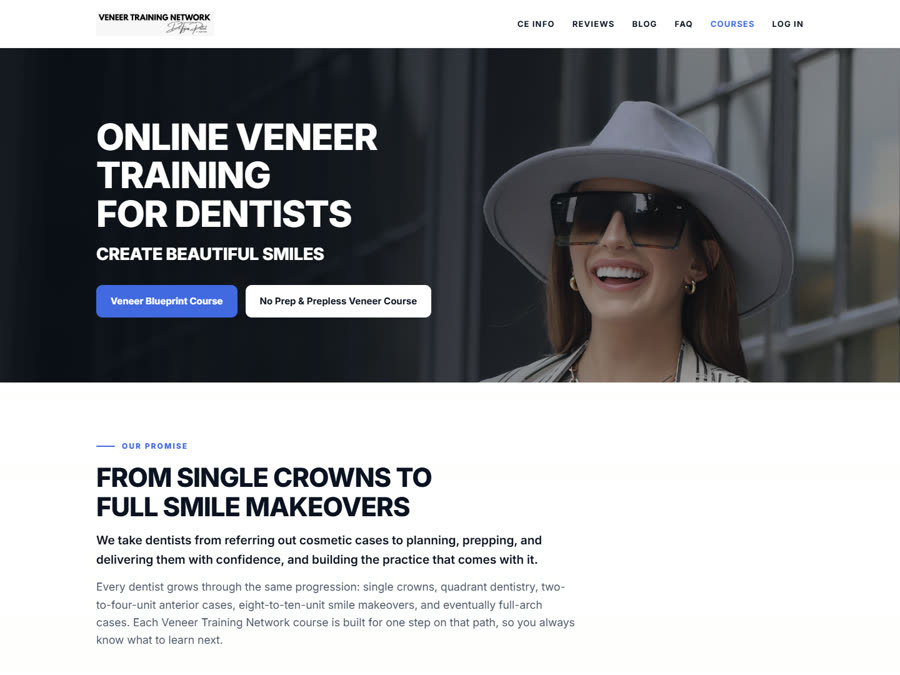
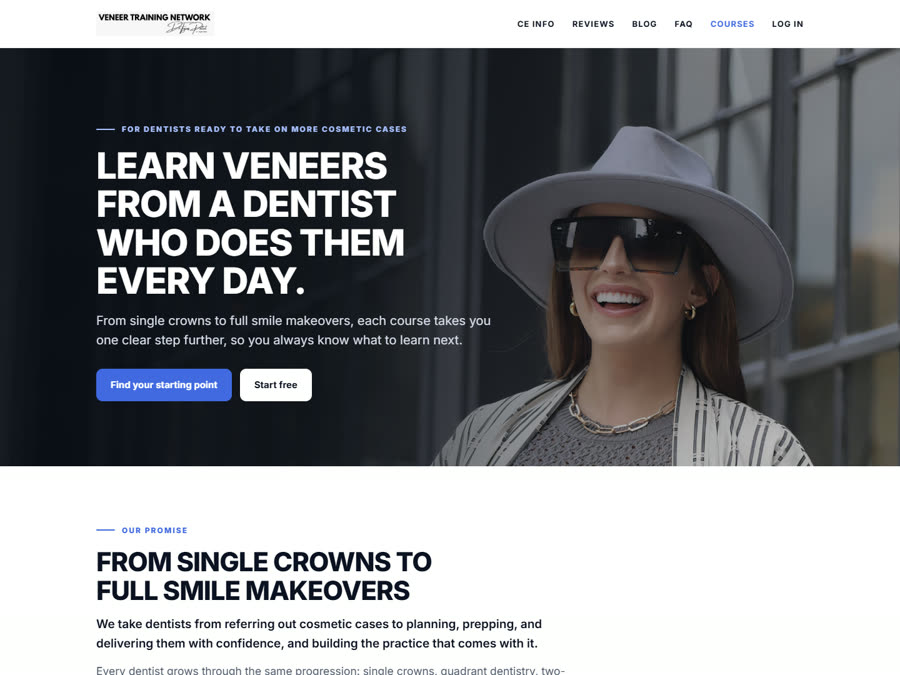
V2: hero matched to V1 and the Crown Prep card filled in
Per Sandra's feedback, edited in place rather than creating a V3.

- Hero now matches Version 1, without the banner placeholder she
  crossed out. Nav still has no Start free button
- 3 Minute Crown Prep card filled from the client's own live course
  page at /3-minute-crown-prep-preview/, replacing the placeholder
- Comparison page updated, since both versions now share a hero and
  the old descriptions were out of date

diff --git a/v2/index.html b/v2/index.html
@@ -67,6 +67,8 @@ nav.main a.is-courses{color:var(--blue)}
   font-weight:800;text-transform:uppercase;text-wrap:balance}
 .hero h2{font-size:clamp(20px,2.4vw,27px);line-height:1.2;margin:0 0 32px;font-weight:800;
   text-transform:uppercase;letter-spacing:-.01em;color:#fff}
+.hero .eyebrow{color:#A8C0FF}
+.hero p.lede{font-size:clamp(17px,2vw,20px);line-height:1.55;color:#D7DDEA;margin:0 0 30px;max-width:54ch}
 .hero-cta{display:flex;gap:13px;flex-wrap:wrap}
 
 /* ---------- sections ---------- */
@@ -320,11 +322,12 @@ footer .legal{margin-top:26px;font-size:13px;color:#79839A}
   <div class="hero-img"><img src="../assets/hero.jpg" alt=""></div>
   <div class="wrap">
     <div class="hero-in">
-      <h1>Online Veneer Training for Dentists</h1>
-      <h2>Create Beautiful Smiles</h2>
+      <span class="eyebrow"><i></i>For dentists ready to take on more cosmetic cases</span>
+      <h1>Learn veneers from a dentist who does them every day.</h1>
+      <p class="lede">From single crowns to full smile makeovers, each course takes you one clear step further, so you always know what to learn next.</p>
       <div class="hero-cta">
-        <a class="btn btn--solid" href="#courses">Veneer Blueprint Course</a>
-        <a class="btn btn--white" href="#courses">No Prep &amp; Prepless Veneer Course</a>
+        <a class="btn btn--solid" href="#courses">Find your starting point</a>
+        <a class="btn btn--white" href="#free">Start free</a>
       </div>
     </div>
   </div>
@@ -427,14 +430,14 @@ footer .legal{margin-top:26px;font-size:13px;color:#79839A}
         <div class="price"><b>$299</b><span>1 hr ADA CE</span></div>
         <span class="who">A newer dentist building your fundamentals</span>
         <h3>3 Minute Crown Prep System</h3>
-        <p class="lede">From crown appointments that run over, to one repeatable system you trust.</p>
+        <p class="lede">Plan, prep, and check every posterior crown the same way, every time.</p>
         <span class="ce">1 hour &middot; ADA CE</span>
-        <div class="ph-block">
-          <div>
-            <b>Curriculum</b>
-            <span>Three bullet points needed from the client for this course.</span>
-          </div>
-        </div>
+        <ul class="spec">
+          <li>8 short modules, one complete system</li>
+          <li>4 timed posterior preps, each critiqued</li>
+          <li>Printable decision tree and two checklists</li>
+        </ul>
+        <p class="outcome"><em>Outcome</em>Get chair time back on every appointment</p>
         <a class="btn btn--line" href="#">View course</a>
       </article>
 

diff --git a/index.html b/index.html
@@ -71,7 +71,7 @@ footer{padding:0 0 70px;text-align:center;color:var(--muted);font-size:14px}
     <img src="assets/logo.png" alt="Veneer Training Network">
     <span class="eyebrow"><i></i>Homepage concepts</span>
     <h1>Two directions to choose from</h1>
-    <p>Both use the same approved copy. The difference is structure and how the learning path is presented. Open each one, then tell us which direction to take forward.</p>
+    <p>Both use the same approved copy and the same hero. The difference is structure, how many courses are shown, and how the learning path is presented. Open each one, then tell us which direction to take forward.</p>
   </div>
 </header>
 
@@ -82,12 +82,12 @@ footer{padding:0 0 70px;text-align:center;color:var(--muted);font-size:14px}
       <a class="shot" href="v1/"><img src="assets/thumb-v1.jpg" alt="Version 1 homepage preview"></a>
       <div class="body">
         <span class="tag tag--1">Version 1</span>
-        <h2>New hero, full course range</h2>
+        <h2>Full course range, path as a list</h2>
         <ul>
-          <li>New headline: &ldquo;Learn veneers from a dentist who does them every day&rdquo;</li>
           <li>Six course cards, including the Learning Lab and Membership</li>
           <li>Learning path shown as a stacked list of five steps</li>
-          <li>Student outcomes and a pull quote from Dr. Patel</li>
+          <li>Student outcome cards and a pull quote from Dr. Patel</li>
+          <li>Pain points and About Dr. Patel in the original order</li>
         </ul>
         <a class="btn btn--solid" href="v1/">Open Version 1</a>
       </div>
@@ -97,11 +97,11 @@ footer{padding:0 0 70px;text-align:center;color:var(--muted);font-size:14px}
       <a class="shot" href="v2/"><img src="assets/thumb-v2.jpg" alt="Version 2 homepage preview"></a>
       <div class="body">
         <span class="tag tag--2">Version 2</span>
-        <h2>Current hero, focused on three courses</h2>
+        <h2>Focused on three courses, path as a graphic</h2>
         <ul>
-          <li>Keeps the existing homepage hero exactly as it is today</li>
-          <li>Three course cards only, the three that are buyable now</li>
+          <li>Three course cards only, the three you can buy today</li>
           <li>&ldquo;Your Path&rdquo; as a wide ascending graphic in navy and gold</li>
+          <li>Course detail and an outcome on every card</li>
           <li>Adds a blog section with the three latest articles</li>
         </ul>
         <a class="btn btn--gold" href="v2/">Open Version 2</a>
